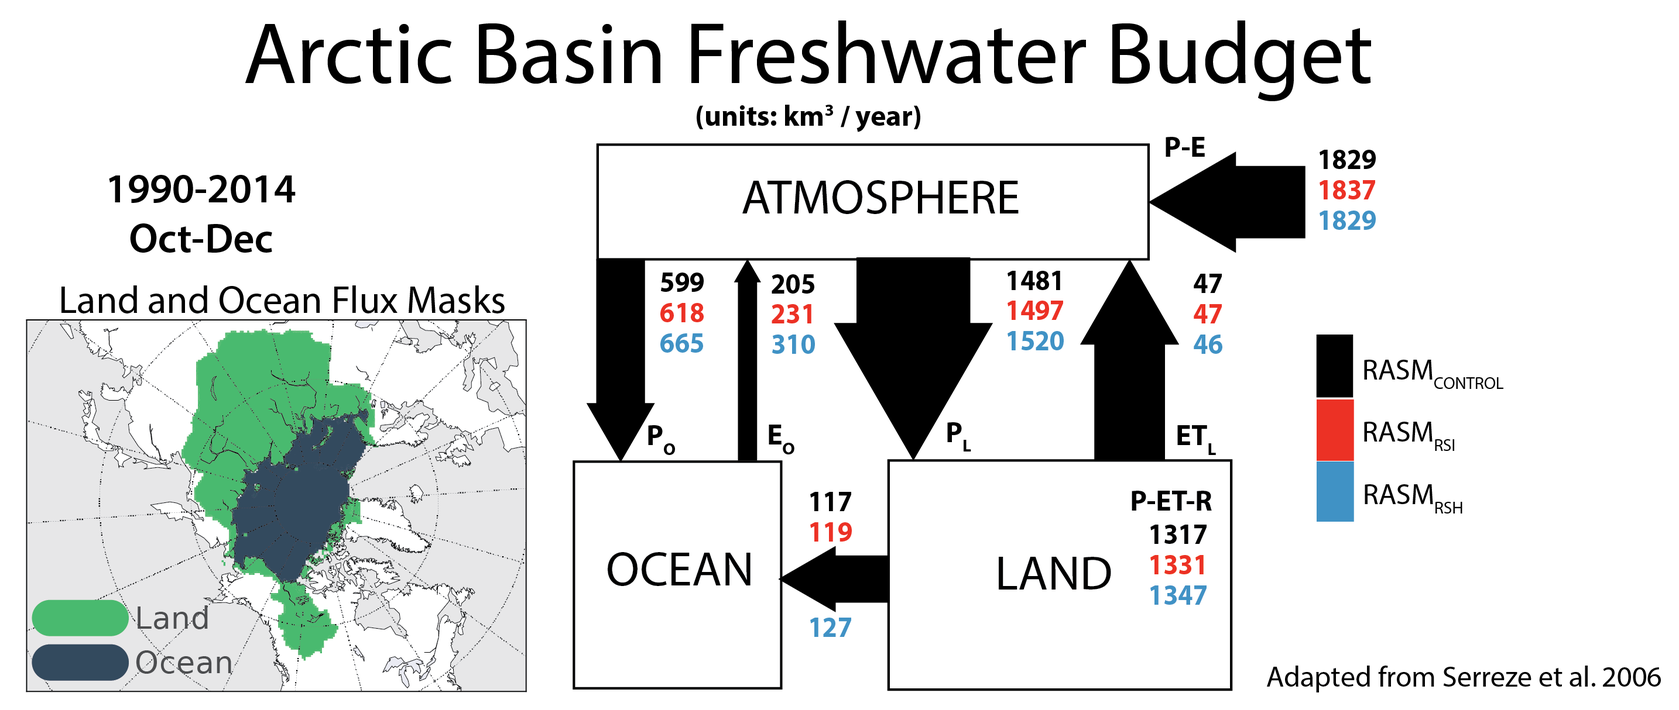
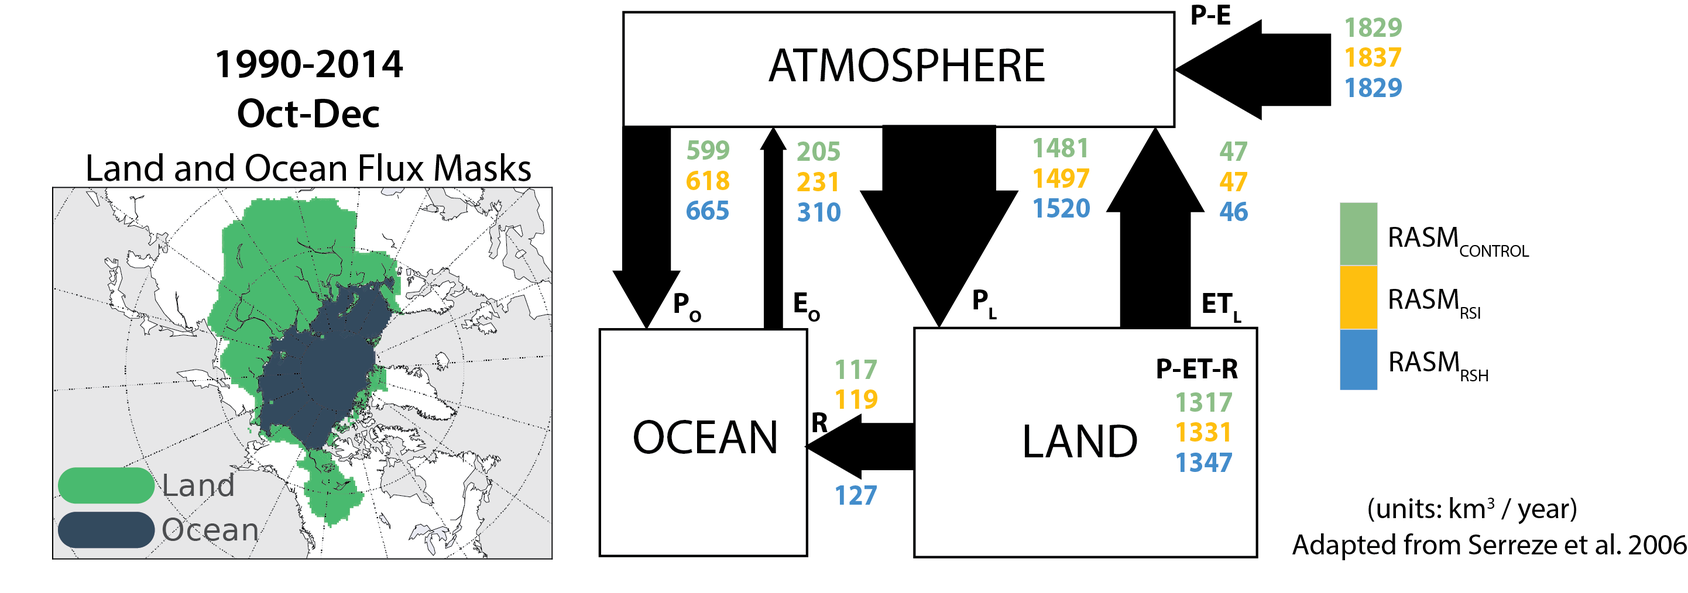
edits to ch5

Changed region(s): [[0.0, 0.0, 1.0, 0.9783]]

diff --git a/chap5.tex b/chap5.tex
@@ -37,11 +37,10 @@ While global average precipitation is expected to increase following a response 
 Analysis of the collection Earth system models (ESMs) in the Coupled Model Intercomparison Project Phase 5 \citep[CMIP5; ][]{Taylor_2012} by \citet{Bintanja_2014} indicates that annual precipitation changes in the Arctic may exceed 50\%, with the largest relative increases in the winter over the Arctic Ocean when precipitation has typically been low.
 \citet{Bintanja_2014} also identify that most of these changes are due to precipitation sourced from enhanced local evaporation related to retreating sea ice.
 This somewhat contradicts previous work that suggested increased poleward moisture transport as the main driver of Arctic precipitation increases.
-Combined with the large intermodel spread of precipitation changes, this brings into question the sensitivity of modern ESMs. %BN: sensitivity of what to what?
-Consequently, the response of precipitation to decreasing sea ice extent remains unclear.
+Combined with the large intermodel spread of precipitation changes in their study, this contradiction brings into question the sensitivity of the response of Arctic precipitation to reduced sea ice in modern ESMs.
 ESMs, along with statistical models, tend to poorly represent the observed decline in summer sea ice extent.
 This is evidenced by the intermodel spread among the 39 ESMs analyzed by \citet{Bintanja_2014}.
-In their study, changes in sea ice extent between the beginning and end of the twenty-first century ranged between 31-66\%, while changes in precipitation varied by a factor of three to four. % BN: Be careful with the number of significant digits. 31.2 implies that the uncertainty is in the last digit, which is very precise but certainly not very accurate.
+In their study, changes in sea ice extent between the beginning and end of the twenty-first century ranged between 31-66\%, while changes in precipitation varied by a factor of three to four.
 
 Conceptually, a warmer Arctic Ocean with less sea ice will lead to increased surface evaporation and may lead to enhanced divergence of moisture onto land in the form of precipitation.
 Because high-latitude land areas are predominantly below freezing in the fall, increases in precipitation during this season are expected to produce deeper snow packs.
@@ -50,24 +49,29 @@ Further permafrost degradation may be attributed to earlier spring snow melt dri
 
 How the Arctic climate will respond to such large temperature and sea ice changes has been at the forefront of recent studies \citep[e.g. ][]{Kazutoshi_2014,Simmonds_2014,Wegmann_2015,Vihma_2014}.
 Here, we investigate the relationship between Arctic winter precipitation, ocean evaporation, and sea ice extent to better understand the terrestrial precipitation response to the ongoing sea ice decline.
-Our apriori hypothesis is that the reductions in sea ice extent in would lead to increases in evaporation from the central portions of the Arctic Ocean and precipitation over land during the fall and early winter months. %BN: Are you planning to do formal hypothesis testing? If not then I would rephrase this and stay away from the hypothesis terminology since a reviewer is likely to call you on it.
-We test this hypothesis using three simulations spanning a range of sea ice climates from a fully-coupled regional  ESM described in Section \ref{sec:data_models_ch5}.
+Our a priori hypothesis is that the reductions in sea ice extent would lead to increases in evaporation from the central portions of the Arctic Ocean and precipitation over land during the fall and early winter months.
+We explore this hypothesis using three simulations spanning a range of sea ice climates from a fully-coupled regional ESM described in Section \ref{sec:data_models_ch5}.
 In Section \ref{sec:results_ch5} we present our analysis of these simulations, first computing the regional freshwater budget following \citet{Serreze_2006a}, then using the Self-Organizing Map (SOM) machine learning technique for dimension reduction and pattern evaluation \citep{Kohonen_1998,Hewitson_2002}.
 
 \section{Data and Methods}
 \label{sec:data_models_ch5}
 
+\subsection{Models}
+\label{sec:models}
 We use three simulations from the Regional Arctic System Model \citep[RASM; ][]{Hamman_2016a,Roberts_2015a}.
 RASM is a high-resolution, fully-coupled regional ESM that has been recently developed to improve the representation of coupled Arctic processes.
+RASM is comprised of individual land \citep[see ][]{Hamman_2016a}, atmosphere \citep[see ][]{Cassano_2016}, ocean \citep[see ][]{Roberts_2015a}, sea ice \citep[see ][]{Roberts_2015a}, and runoff \citep[see ][]{Hamman_2016b} components, coupled via the CESM flux coupler \citet{Craig_2011}.
+In RASM, the atmosphere is forced at its lateral boundaries with the ERA-Interim Reanalysis \citep{Dee_2011} and the ocean's closed boundaries are relaxed to the climatology from \citet{Steele_2001}.
+It is important to note that spectral nudging is applied to temperature and winds in RASM above 500 hPa.
+From a practical perspective, this nudging means that the synoptic scale circulation patterns in all three RASM simulations closely match those of ERA-Interim \citep{Glisan_2013}.
+The land, atmosphere, and runoff components in RASM are applied on a 50 km near equal area polar stereographic grid while the ocean and sea ice are applied on a 1/12$^{\circ}$ rotated pole mesh.
+
+Each of the three RASM simulations used here were run from September 1, 1979 through December 31, 2014, although our analysis begins after a 10-year spinnup to allow for the stabilization of the ocean and sea ice components under coupled forcings.
 \citet{Hamman_2016b} provide a complete description of the configuration of RASM for the baseline $RASM_{CONTROL}$ simulation.
 Two sensitivity simulations, $RASM_{RSI}$ and $RASM_{RSH}$, representing intermediate and high reductions in sea ice extent are also analyzed.
 The configuration of these simulations is identical to $RASM_{CONTROL}$ except in the parameterization of sea ice albedos, which is summarized in Table \ref{table:sims}.
-Sea ice albedo is reduced in both simulations to promote later sea ice formation and earlier melt and reduce ice extent. % BN: You need to spend a few more sentences motivating the method that you are using for decreasing sea ice extent (why do it this way rather than prescribing a reduced sea ice extent)
-RASM is forced at its lateral boundaries with the ERA-Interim Reanalysis \citep{Dee_2011}.
-It is important to note that spectral nudging is applied to temperature and winds in RASM above 500 hPa \citep{Cassano_2016}.
-From a practical perspective, this nudging means that the synoptic scale circulation patterns in all three RASM simulations closely match those of ERA-Interim \citep{Glisan_2013}.
-
-% BN: Even though these simulations were described in \citet{Hamman_2016b} the paper needs to stand on its own and you need to provide a few more details: resolution, period (model simulation and analysis), initialization. This can be very short, but is important. Also - did you discard any of the model results at the start of the simulation?
+Sea ice albedo is reduced in both simulations to promote accelerated spring sea ice melt and reduced sea ice extent in the summer and fall.
+This method of altering the radiative properties of sea ice allows for fully-coupled, self-consistent simulations in RASM and avoids issues with prescribing unphysical surface conditions.
 
 \begin{table}[]
     \centering
@@ -83,130 +87,145 @@ From a practical perspective, this nudging means that the synoptic scale circula
     \end{tabular}
 \end{table}
 
+\subsection{Datasets}
+\label{sec:data}
 Observations of sea ice extent are taken from the National Snow and Ice Data Center (NSIDC) Weekly Sea Ice Extent product \citep{Brodzik_2013}.
-Gridded precipitations observations between 1979 and 2014 are taken from CRU TS v.3.23 \citep{Harris_2014}. % BN: Mention spatial and temporal resolution of these data sets
-% TODO: reference reanalyses -- % BN: Yes - please include you must have this text from the earlier chapters so just copy it here and shorten it.
+Gridded precipitations observations between 1979 and 2014 are taken from CRU TS v.3.23 \citep{Harris_2014}.
+We also used monthly mean precipitation data ERA-Interim \citep[referred to hereafter as ERA; ][]{Dee_2011} and NASA’s Modern-Era Retrospective Analysis for Research and Applications \citep[MERRA; ][]{Rienecker_2011}.
+These two datasets, originally provided at their respective native resolution of 0.75$^{\circ}$x0.75$^{\circ}$ and 0.5$^{\circ}$ x 0.667$^{\circ}$ spatial resolutions, were resampled to RASM's land/atmosphere grid for use in this study.
+
+\subsection{Self-Organizing Maps}
+In Section \ref{sec:rasm_results}, we present results using the Self-Organizing Map \citep{Kohonen_1998,Hewitson_2002} technique.
+SOMs are a useful technique for dimension reduction, allowing for the identification of unique climatological patterns.
+They are are a type of unsupervised machine learning, utilizing artificial neural networks to create a lower-dimensional representation of high-dimensional datasets.
+SOMs have been previously applied in studies of polar climatology to study synoptic scale atmospheric circulation \citep[e.g. ][]{Cassano_2007}, extreme weather events \citep[e.g. ][]{Cassano_2015,Glisan_2016}, and coupled ocean-atmosphere processes \citep[e.g. ][]{DuVivier_2016}.
+
+In our analysis, we trained a 2x4 SOM, using standardized ocean evaporation anomalies north of 55$^{\circ}$ N from each of the three RASM simulations described in Section \ref{sec:models} for individual fall months (October - December) between 1985 and 2014.
+In total, the training dataset was comprised of 270 months of evaporation anomalies.
+Standardized anomalies were calculated using the climatology calculated from the entire analysis period.
+We used a evaluation metric of Euclidean distance, a learning rate of 0.001, and a maximum number of iterations of 2000.
+The shape of the 2x4 SOM was chosen to provide a sufficient number of unique patterns while maximizing the average number of samples in each pattern.
+% BN: Should the training domain be limited to that of Figure 4?  % JH: I have tried that and we can go over those results. I remember them not being particularly easy to understand.
+The SOM was initialized with random fields from a standard normal distribution. % BN: This doesn't mean much to people who have not used SOMs. What is the implication of this choice for initialization?
+% JH: True, but since there are other ways to initialize a som, I think it is important that we state our methodology.
+% BN: Are all cells independent?
+% JH: No. The each month is put into an individual node.
+Further details on the SOM algorithm can be found in \citet{Reusch_2005} or \citet{Cassano_2015}.
 
 \section{Results and Discussion}
 \label{sec:results_ch5}
 \subsection{Observational evidence}
 % Motivation and establishing a connection between sea ice extent and precipitation
-Our hypothesized relationship between precipitation and sea ice extent builds on the observed interannual covariance of precipitation and sea ice extent across the central Arctic drainage basin.
-Here we define the central Arctic drainage basin as the land areas draining to the core sea ice regions of the Arctic ocean, including the Siberian Shelf (mainly the Kolyma and Lena Rivers) and Canadian coast (mainly the Mackenzie River). % BN: Do you mean covariation rather than covariance?
-% BN: A figure would help in describoing the central arctic. You can probably overlay this on Figure 2 or just refer to Figure 4.
-Figure \ref{fig:prec_ice_ts} presents the timeseries of observed annual minimum sea ice extent and October-December precipitation in the central Arctic drainage basin from the MERRA and ERA-Interim reanalysis and CRU datasets.
-Using the Spearman rank-order correlation measure, the MERRA, ERA, and CRU datasets exhibit correlations of -0.38, -0.40, and -0.52 respectively. % BN: reference for Spearman rank-correlation test
-The observed relationship (i.e., negative correlations) is most prominent prior to 2000. % BN: "e.g." means "for example", "i.e." means "that is"
+Our hypothesized relationship between precipitation and sea ice extent builds on the observed interannual covariation of precipitation and sea ice extent across the central Arctic drainage basin.
+Here we define the central Arctic drainage basin as the land areas draining to the core sea ice regions of the Arctic ocean, including the Siberian Shelf (mainly the Kolyma and Lena Rivers) and Canadian coast (mainly the Mackenzie River).
+% BN: A figure would help in describing the central arctic. You can probably overlay this on Figure 2 or just refer to Figure 4.
+Figure \ref{fig:prec_ice_ts} presents the timeseries of observed annual minimum sea ice extent and October-December precipitation in the central Arctic drainage basin from the MERRA and ERA reanalysis and CRU datasets.
+Using the Spearman rank-order correlation measure \citep{Spearman_1904}, the MERRA, ERA, and CRU datasets exhibit correlations of -0.38, -0.40, and -0.52 respectively.
+The observed relationship (i.e., negative correlations) is most prominent prior to 2000.
 This raises the question whether the two processes are related through a physical coupling that is limited by a threshold mechanism or whether they are perhaps driven by a common forcing.
 
 \begin{figure}
   \centering
   \includegraphics[width=12cm,keepaspectratio]{prec_seaice_ts}
-  \caption{Timeseries (1980-2015) of fall precipitation (Oct - Nov) over the central Arctic drainage basin, (left axis) compared to minimum annual sea ice extent (right axis). Note that the right axis is inverted.}
+  \caption{Timeseries (1980-2015) of fall precipitation (Oct - Dec) over the central Arctic drainage basin, (left axis) compared to minimum annual sea ice extent (right axis). Note that the right axis is inverted. Units for both axes are fraction of the 1980-1990 mean.}
   \label{fig:prec_ice_ts}
-\end{figure} % BN: Reduce thickness of sea ice extent line; Figure should follow the text in which it is first mentioned
+\end{figure}
 
 Figure \ref{fig:prec_spatial_corr} shows the Spearman rank-order correlation coefficients between minimum annual sea ice extent and October-December precipitation from the CRU dataset at each grid cell within the RASM domain.
 Across most of the domain, the correlations are found to be below zero, with the most negative correlations occurring across Siberia and North America.
-Correlations across Europe are predominantly near zero or positive. % BN: But is Europe part of the central Arctic drainage as you describe it earlier? I think you need to mask these figures to ONLY show the part that is actually used in analysis (the lines in Figure 1).
+Correlations across northern Europe are predominantly near zero or positive. % BN: But is Europe part of the central Arctic drainage as you describe it earlier? I think you need to mask these figures to ONLY show the part that is actually used in analysis (the lines in Figure 1).
+% JH: I've masked the spatial figure for the RVIC drainage and just called out the northern Europe piece.
 Generally, a moderately consistent relationship exists between sea ice extent and precipitation, especially in the high-latitude regions of the study domain.
-In the aggregate this relationship appears stronger before 2000.
 In the following sections, we will investigate possible mechanisms for this relationship.
 
 \begin{figure}
   \centering
   \includegraphics[width=12cm,keepaspectratio]{cru_correlation}
-  \caption{Spearman rank-order correlation coefficients between observed minimum annual sea ice extent and gridded Oct-Dec precipitation from CRU. Time period 1980-2015.} % BN: Correlation coefficients do not "compare" things
+  \caption{Spearman rank-order correlation coefficients between observed minimum annual sea ice extent and gridded Oct-Dec precipitation from CRU. Time period 1980-2015.}
   \label{fig:prec_spatial_corr}
-\end{figure} % BN: Figure should follow the text; Generally don't use titles in figures that are included in manuscripts (that is what captions and axis labels are for)
+\end{figure}
 
 \subsection{RASM simulations}
+\label{sec:rasm_results}
+
 % RASM sea ice sensitivity
 
-% BN: This sectin needs to be beefed up. Include some spatial maps of sea icea extents and delve a bit deeper into the results. Do we have minimum sea ice extents at the right time and in the right years (since we are using reanalysis to drive the simulation I assume so.)
-Figure \ref{fig:sea_ice_box} shows box-and-whisker plots of sea ice extent from the three RASM simulations escribed in Section \ref{sec:data_models_ch5} compared to the NSIDC observation-based estimates.
-Compared to $RASM_{CONTROL}$, $RASM_{RSI}$ and $RASM_{RSH}$ have reductions in mean fall season sea ice cover of 3\% and 11\% respectively. % BN: This is confusing. Why do you switch from the minimum which is used in Figures 1 and 2 to mean seasonal sea ice cover extent
-However, compared to the RASM simulations, the observations of sea ice extent demonstrate significantly more interannual variability. % BN: Not only that there distributions look very odd - see comments below
-Individual months (e.g. October) have interannual standard deviations that are 1.6 to 3.5 times smaller than the observations.
+% BN: This section needs to be beefed up.
+
+% BN: Include some spatial maps of sea ice extents and delve a bit deeper into the results. Do we have minimum sea ice extents at the right time and in the right years (since we are using reanalysis to drive the simulation I assume so.)
+% JH: This will have to be done after we submit the dissertation.
+Figure \ref{fig:sea_ice_box} shows box-and-whisker plots of sea ice extent from the three RASM simulations described in Section \ref{sec:data_models_ch5} compared to the NSIDC observation-based estimates.
+Compared to $RASM_{CONTROL}$, $RASM_{RSI}$ and $RASM_{RSH}$ have reductions in minimum annual sea ice extents of 16\% and 49\% respectively.
+In the fall, these simulations include smaller reductions in mean sea ice cover of 3\% and 11\% respectively.
+However, compared to the RASM simulations, the observations of sea ice extent demonstrate significantly more interannual variability.
+Individual months can be clearly seen in \ref{fig:sea_ice_box} with the lowest values in each simulation corresponding to Octobers, the middle values corresponding to Novembers, and the highest values corresponding to Decembers.
+The RASM simulations have interannual standard deviations for each of these months that are 1.6 to 3.5 times smaller than the observations.
+This last point may be an artifact of the processing of the daily NSIDC timeseries and is something that we are currently looking into.
  % BN: Perhaps, but you need to discuss the odd distribution of the RASM simulations. Whereas the observation are somewhat evenly distributed across the full range of extents, the RASM simulations show an odd distribution, which appears tri-modal. They either cluster near the mean/median or near the extremes. This is true for all three simulations, which seems very odd to me. Are you sure nothing went wrong in the processing. I am very suspicious that there is not a single year that falls in large parts of the distribution of extents. As a reviewer this would be a red flag that something is not right. You need to check this figure with Andrew and include a discussion.
 
- % BN: Don't use "assert", because you can assert whatever you want but that does not make it so. In this case, I would argue that there is something fishy and you need to provide some more analysis. We cannot just say this is good enough. Representing a map with the mean sea ice extent in each state (or from a simulation that is close to the center of each cluster) may rovide insight into what is going on.
+ % BN: Don't use "assert", because you can assert whatever you want but that does not make it so. In this case, I would argue that there is something fishy and you need to provide some more analysis. We cannot just say this is good enough. Representing a map with the mean sea ice extent in each state (or from a simulation that is close to the center of each cluster) may provide insight into what is going on.
 
  % BN: Discuss the combination of the three datasets under the SOM discussions. It is not immediately clear to me why you can do that (or what you gain by doing so)
 
 \begin{figure}
   \centering
   \includegraphics[width=12cm,keepaspectratio]{seaice_boxplots}
-  \caption{Distribution of fall (Oct - Nov) sea ice extent in RASM and the NSIDC sea ice index. Time period 1985-2015.} % BN: Please change colors. Black dots against dark blue background are difficult to distinguish; Don't use red and green in the same plot; explain in the caption what the individual dots are; explain what the lines on the box plot are (median, interquartile and full range?).
+  \caption{Distribution of fall (Oct - Dec) sea ice extent in RASM and the NSIDC sea ice index. Time period 1985-2015.}
   \label{fig:sea_ice_box}
 \end{figure}
 
 % water budget changes
-Figure \ref{fig:fwb} presents the freshwater budget for the three RASM simulations, summarized for the fall months (October-December). % BN: Why are you using 1990=2014? I am not sure you explained this before
-The total moisture convergence for the three simulations are all within 0.05\% of one another. % BN: Is that because they are driven by the same reanalysis? You named this section "Results and discussion", so you can not just give results and no discussion. Talk about your results. Don't show them to the reader and let them figure it out for themselves.
+Figure \ref{fig:fwb} presents the freshwater budget for the three RASM simulations, summarized for the fall months (October-December).
+The total moisture convergence for the three simulations are all within 0.05\% of one another, this suggests that changes in .
 The reductions in sea ice extent in $RASM_{RSI}$ and $RASM_{RSH}$ are coincident with increases in ocean evaporation of 13\% and 52\%, respectively.
 These changes in evaporation from the ocean translate to more modest increases in precipitation over the ocean of 3\% and 11\%.
-Associated reductions in convergence over the ocean mask, defined here as P-E between October and December, are found to be 2\% and 10\%. % BN: Is a 2% change meaningful?
-Finally, while precipitation over land is found to increase relative to the baseline case for both $RASM_{RSI}$ and $RASM_{RSH}$, the increases are relatively small (1\% and 3\% respectively). % BN: ET over land also increases and is sufficient to account almost entirely for changes in precipitation over land. That is, you don't even need increased ET over the ocean to account for the increased P over land. Process-wise it may be needed, but not from a simple accounting perspective. You need to point that out arther than leaving it as an exercise to the reader
-Summarizing the water budget, we find that the forced decreases in $RASM_{RSI}$ and $RASM_{RSH}$ lead to significant increases in ocean evaporation but relatively small changes in precipitation over land, despite relatively large changes in ocean evaporation. % BN: yes - good
-Changes in the spatial distribution of precipitation (not shown) lack a regional signal. % BN: From year to year or between simulations?
+Associated reductions in convergence over the ocean mask, defined here as P-E between October and December, are found to be 2\% and 10\%. % BN: Is a 2% change meaningful? JH: I'm not sure what you mean.
+Finally, while precipitation over land is found to increase relative to the baseline case for both $RASM_{RSI}$ and $RASM_{RSH}$, the increases are relatively small (1\% and 3\% respectively).
+These increases in precipitation are sufficient to explain the resulting change in storage (e.g. snow) over land.
+Summarizing the water budget, we find that the forced decreases in $RASM_{RSI}$ and $RASM_{RSH}$ lead to significant increases in ocean evaporation but relatively small changes in precipitation over land, despite relatively large changes in ocean evaporation.
+Changes in the spatial patterns of precipitation between the three RASM simulations (not shown) lack a regional signal.
 While this muted response may be partially explained by the limited interannual variability in the RASM sea ice extent, it also indicates that changes in evaporation from the Arctic Ocean will have to be accompanied with changes in circulation patterns if increases in precipitation are to be attributed to sea ice loss.
 
 \begin{figure}
   \centering
   \includegraphics[width=14cm,keepaspectratio]{fresh_water_budget}
   \caption{Arctic freshwater budget, adapted from \citet{Serreze_2006a}.}
-  \label{fig:fwb} % BN: Remove title and enlarge figure
-  % BN: Be consistent and use the same colors for the model simulations as in the updated figure 3.
-  % BN: I am quite sure that the numbers next to the ET_L and (P_L-ET_L-R) are flipped. At least I hope that ET is greater than 47 km3
-  % BN: The arrow from land to ocean needs to be labeled with an R
+  \label{fig:fwb}
 \end{figure}
 
-\subsection{Self-Organizing Maps}
 % BN: My main problem with this section is that it reads as if you have found a tool and you are now going to use it just because you have it rather than because you think it may be the best tool for the job. It lacks proper motivation of why you are using SOMs and as a result, the outcomes are rather ambivalent. "I used this technique called SOM and this is what I found". You need to restructure this and provide better motivation for the technique. Rather than being guided by the technique, lead the discussion by what you are interested in (is increased precipitation in the central Arctic a result of a decrease in sea ice extent)? The story is about the latter, not about the technique. Reframing it that way will lead to a better discussion. That starts by removing the "Self-Organizing Maps" as a stand-alone section. It's merely a technique. Focus on the story.
+% JH: I've worked to tie the SOM analysis into the story a bit better.
 
-\label{sec:soms}
 % SOM analysis
-Given the relatively sensitivity in the regional freshwater budget to changes in sea ice extent, we have applied the Self-Organizing Map \citep{Kohonen_1998,Hewitson_2002} technique on standardized evaporation anomalies across the Arctic Ocean. % BN: I don't understand how the second part of the sentence follows from the first part
-The goal of this analysis is to provide insight into the coupling between ocean sourced evaporation and anomalies in precipitation over land during the fall season.
-SOMs are a useful technique for dimension reduction, allowing for the identification of unique climatological patterns.
-They are are a type of unsupervised machine learning, utilizing artificial neural networks. % BN: to do what?
-SOMs have been previously applied in studies of polar climatology to study synoptic scale atmospheric circulation \citep[e.g. ][]{Cassano_2007}, extreme weather events \citep[e.g. ][]{Cassano_2015,Glisan_2016}, and coupled ocean-atmosphere processes \citep[e.g. ][]{DuVivier_2016}.
-In our analysis, we trained a 2x4 SOM, using standardized ocean evaporation anomalies north of 55$^{\circ}$ N from each of the three RASM simulations described in Section \ref{sec:data_models_ch5} for fall months (October - December) between 1985 and 2014.
-In total, the training dataset was comprised of 270 months of evaporation anomalies.
-We used a evaluation metric of Euclidean distance, a learning rate of 0.001, and a maximum number of iterations of 2000. % BN: Need tor provide more info on what it means to use a 2x4 SOM and motivate this choice
-% BN: Should the training domain be limited to that of Figure 4?
-The SOM was initialized with random fields from a standard normal distribution. % BN: This doesn't mean much to people who have not used SOMs. What is the implication of this choice for initialization?
-% BN: Are all cells independent?
-Further details on the SOM algorithm can be found in \citet{Reusch_2005} or \citet{Cassano_2015}.
+We have applied the Self-Organizing Maps technique on standardized evaporation anomalies across the Arctic Ocean to better understand the coupling between ocean sourced evaporation and anomalies in precipitation over land during the fall season.
+As we saw in our previous water budget analysis, fairly large relative increases in ocean evaporation led to fairly small changes in precipitation over land.
+In applying SOMs, as we do in this section, we will be able to connect regional patterns of ocean evaporation, sea ice, and atmospheric circulation to precipitation patterns over land.
 
 % MASTER SOM
-The full trained Kohonen Layer (or Master SOM) is shown in Figure \ref{fig:master_som}.
-The SOM algorithm identified characteristic spatial patterns of evaporation anomalies.
-Here we focus our analysis on four SOM nodes that exhibit the largest hit rate and evaporation patterns of interest: (0,1), (0,3), (1,0), and (1,2). % BN: define hit rate
-We will show that the first two SOMs represent generally wet patterns (high precipitation) while the second two represent generally dry patterns (low precipitation). % BN: How will you show that"?
+The full, trained Kohonen Layer (or Master SOM) is shown in Figure \ref{fig:master_som}.
+The SOM algorithm identified characteristic spatial patterns of evaporation anomalies, with patterns of positive evaporation anomalies toward the top left of Figure \ref{fig:master_som} and patterns of negative evaporation anomalies toward the bottom right.
+Here we focus our analysis on four SOM nodes that exhibit the largest hit rate (number of months in a particular pattern) and evaporation patterns of interest: (0,1), (0,3), (1,0), and (1,2).
+We will show that the first two SOMs represent generally wet patterns (high precipitation) while the second two represent generally dry patterns (low precipitation) by mapping these patterns to their coincident patterns of precipitation.
 In each of these patterns, the combined position, sign, and magnitude of evaporation anomalies in the central Arctic, Kara/Barents sea, and North Atlantic Ocean are characteristically different.
 
 \begin{figure}
   \centering
   \includegraphics[width=14cm,keepaspectratio]{master_som}
-  \caption{Master SOM. The hit frequency is shown in the top left corner.}
-  % BN: Needs more descriptive caption
-  % BN: Should this be the "hit rate"? Either way, make sure to define it and provide the formula.
+  \caption{Master SOM. The hit rate, shown as the percentage of all the months (270) in the training dataset in each pattern, is shown in the top left corner.}
   \label{fig:master_som}
 \end{figure}
 
 % Composite SOM
-
-Figure \ref{fig:composite_som} presents the composite fields for the four SOM nodes discussed above. % BN: What is a "compaosite field"?
+Figure \ref{fig:composite_som} presents the mapped fields for the four SOM nodes discussed above.
+Each of the mapped fields represent the composite mean of all months assigned to SOM node.
 Here we focus on ocean evaporation, sea level pressure (SLP), sea ice concentration, precipitation over land, and snow water equivalent.
 For node (0,1), anomalously high evaporation rates from the North Atlantic are accompanied by anomalously low pressure in the region.
 This combination is found to lead to positive precipitation anomalies over Northern Europe.
 Node (0,3) exhibits positive evaporation anomalies in the Kara and Barents Seas and negative evaporation anomalies in the North Atlantic.
 SLPs for this node are anomalously high across North America from Alaska to Greenland, indicating a southward shift of the storm track.
 Corresponding precipitation anomalies for node (0,3) are positive over eastern Europe and central Siberia.
-Neither of the wet nodes have sea ice concentration anomalies that can be clearly tied to evaporation or precipitation anomalies.  % TODO: we may want to change how the anomalies in sea ice concentration are calculated so that this is more sensitive
-% BN: So what do they tell us ...
+Neither of the wet nodes have sea ice concentration anomalies that can be clearly tied to evaporation or precipitation anomalies.
+The lack of correspondence between sea ice and evaporation anomalies indicates that variability in the fall evaporation flux in RASM is largely being driven by patterns in the ocean and atmosphere.
 
 \begin{figure}
   \centering
@@ -214,7 +233,6 @@ Neither of the wet nodes have sea ice concentration anomalies that can be clearl
   \caption{SOM nodes (0,1), (0,3), (1,0), and (1,2) mapped to ocean evaporation, sea level pressure (SLP), sea ice concentration, precipitation over land, and snow water equivalent. Except for sea level pressure, values plotted are the average anomalies across all the members of each node.}
   \label{fig:composite_som}
   % BN: I don't know how to interpret the ET units
-  % BN: what is the reference for the anomalies? I don't know how to interpret that the sea ice concentration anomalies are positive for all four SOMs over almost the entire domain.
   % BN: Should this analysis be limited to the Central Arctic?
 \end{figure}
 % TODO: get the subplots to align better
@@ -222,7 +240,7 @@ Neither of the wet nodes have sea ice concentration anomalies that can be clearl
 The selected dry nodes, (1,0) and (1,2), are characterized by negative evaporation anomalies east and north of Greenland, respectively, and positive anomalies in the central Arctic and Siberian Shelf.
 Both nodes are mapped to negative sea ice concentration anomalies along the Siberian Shelf.
 In node (1,2), positive sea ice concentration anomalies in the Kara Sea correspond to the negative anomalies ocean evaporation, although the spatial extent is considerable larger in the evaporation anomalies.
-Node (1,2) also includes positive SLP anomalies across the central Arctic. % BN: Will you discuss SWE? If not, remove it.
+Node (1,2) also includes positive SLP anomalies across the central Arctic.
 
 % Hit Map
 The trained SOM can be used to identify the frequency of occurrence of each pattern as a function of month (October, November, or December) and RASM simulation ($RASM_{CONTROL}$, $RASM_{RSI}$, or $RASM_{RSH}$).
@@ -230,7 +248,7 @@ Figure \ref{fig:som_hit_freq} plots the mapping frequency, by month and simulati
 Node (0,1), which has a large region of positive evaporation anomalies across the North Atlantic, occurs nearly twice as frequently in $RASM_{RSH}$ as in $RASM_{CONTROL}$.
 The opposite is found in node (0,3), where the hit frequency is found to decrease under reduced sea ice conditions.
 Interestingly, the hit frequency for dry nodes [e.g. (1,0) and (1,2)] is mostly stable between the simulations.
-On the whole, the SOM analysis may indicate that decreasing sea ice extent and the associated evaporation changes are most likely to contribute to wetting trends over land when these changes are accompanied by a shift in atmospheric circulation [e.g. node (0,3)]. % BN: Don't use "may indicate". It's up to you to interpret your results for the reader.
+On the whole, the SOM analysis indicates that decreasing sea ice extent and the associated evaporation changes are most likely to contribute to wetting trends over land when these changes are accompanied by a shift in atmospheric circulation [e.g. node (0,3)].
 Global climate models tend to suggest that future Arctic climate will be stormier \citep{Vavrus_2012} and that winter circulation patters may trend toward a more variable pattern.
 However, the fact that the patterns with large shifts in frequency [(0,1) and (1,2)] shift in directions that limit the impact of sea ice loss, indicates that the precipitation response may be dampened.
 
@@ -241,21 +259,20 @@ However, the fact that the patterns with large shifts in frequency [(0,1) and (1
   \label{fig:som_hit_freq}
 \end{figure}
 
-
-
 \section{Conclusions}
 \label{sec:conclusions_ch5}
 
 We have investigated the relationship between sea ice extent and early winter precipitation over the Pan Arctic land masses.
-We have demonstrated observed interannual covariance between sea ice extent and precipitation over land, and identified a break in the presumed relations circa year 2000, about the minimum annual sea ice extent began to decline most rapidly. % BN: But I don't think this break eevr comes back in the rest of the narrative which is a real disconnect: "I found a break, but in the rest of the analysis I am going to pretend it was not there"
+We have demonstrated observed interannual covariation between sea ice extent and precipitation over land.
+Our initial hypothesis was that variations in sea ice extent were a driving factor in precipitation over land in the fall.
 A water budget analysis highlighted that although relatively large changes in winter evaporation from the Arctic Ocean are expected (50\% in our simulation with the lowest sea ice concentration), these changes are proportionally small when compared to the precipitation flux over land.
 Furthermore, the modest increases in terrestrial fall season precipitation simulated by RASM under reduced sea ice conditions indicate that there will have to be significant circulation changes in the future if ocean sourced evaporation is likely to significantly impact precipitation over land.
 Our SOM analysis has also pointed us in this direction, which is that the ties between evaporation and precipitation are only robust under certain atmospheric circulations.
 Across Eurasia, the dominant coupling between precipitation and Arctic Ocean evaporation requires low pressure anomalies over the central Arctic, similar to the negative phase of the Arctic Oscillation \citep{Thompson_1998}.
+Previous work by \citet{Cassano_2014}, using partially coupled global simulations with prescribed sea ice, has also indicated that reductions in sea ice extent in the fall may contribute negative sea level pressure anomalies over the Arctic Ocean.
+
 
 Of particular interest is the sea ice state in the Kara and Barents Seas.
 As sea ice declines, we expect that this coupling will become stronger, especially if the Arctic is to become stormier.
 We have found that sea ice retreat along the Siberian shelf and north Alaskan coast is holds less influence on precipitation regional patterns.
-In these areas, the circulation patterns (low pressure in North Pacific) tend to limit the influence of enhanced evaporation along the ice edge.
-
-% BN: Not sure what is going on with the referencing style, but please stick with the same style used in the other sections (and preferably an AGU style). As is, it is writing out the full first names of the authors (if available), which just looks weird (although Donald Knuth was a fervent devotee to this style).
+In these areas, the circulation patterns (low pressure in North Pacific) tend to limit the influence of enhanced evaporation along the retreating ice edge.

diff --git a/chap3.tex b/chap3.tex
@@ -164,7 +164,7 @@ All gridded datasets were regridded to the RASM land-atmosphere 50-km near-equal
 
 Reanalysis products offer model-simulated estimates of land and atmosphere states and fluxes constrained by observations.
 In areas where assimilated observations are sparsely distributed, reanalysis results are more dependent on the reanalysis model than on the assimilated observations.
-We used ERA-Interim (also referred to hereafter as ERA; Dee et al. 2011) and NASA’s Modern-Era Retrospective Analysis for Research and Applications \citep[MERRA; ][]{Rienecker_2011} reanalysis products for comparison with RASM land surface fluxes and states.
+We used ERA-Interim \citep[also referred to hereafter as ERA; ][]{Dee_2011} and NASA’s Modern-Era Retrospective Analysis for Research and Applications \citep[MERRA; ][]{Rienecker_2011} reanalysis products for comparison with RASM land surface fluxes and states.
 \citet{Lindsay_2014} have shown that these are two of the best performing reanalysis products in the Arctic region in terms of surface air temperature, precipitation, and radiative fluxes.
 
 Gridded observations of surface air temperature and precipitation suffer from similar sampling problems as reanalysis products but provide a crucial benchmark for model evaluation apart from results of other models.
